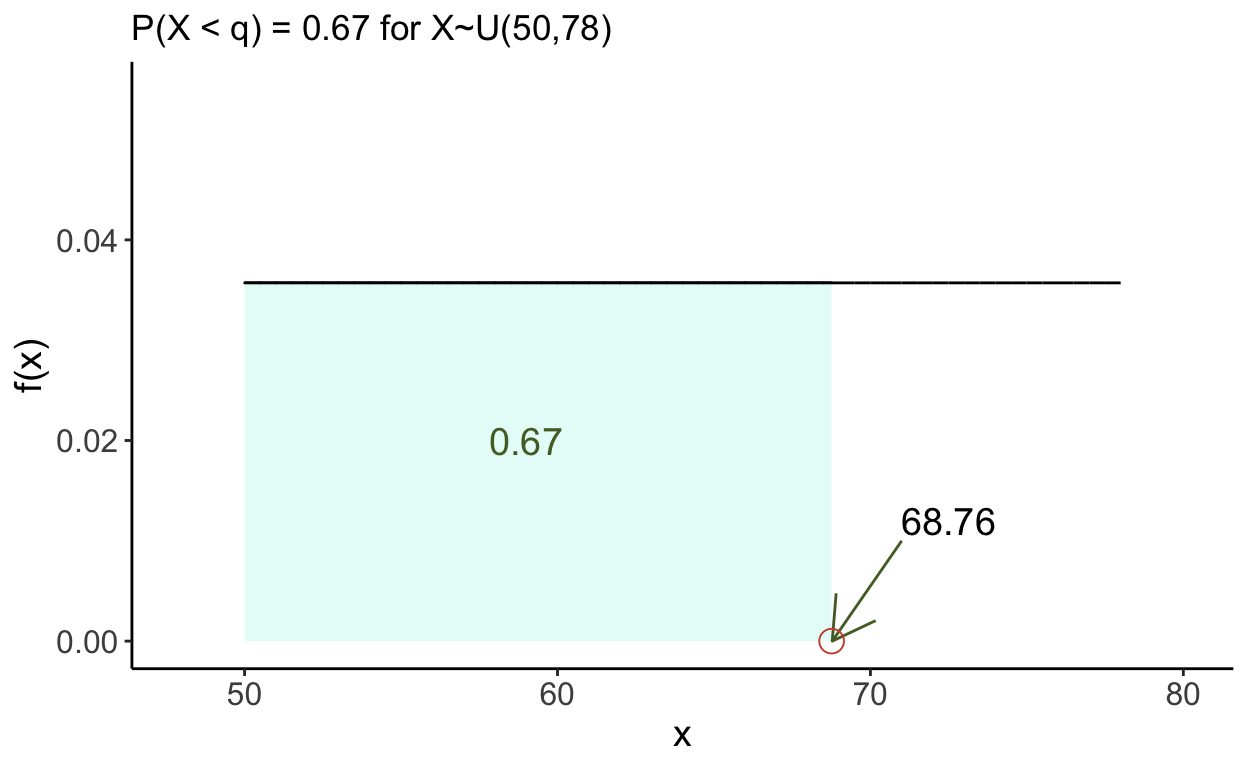
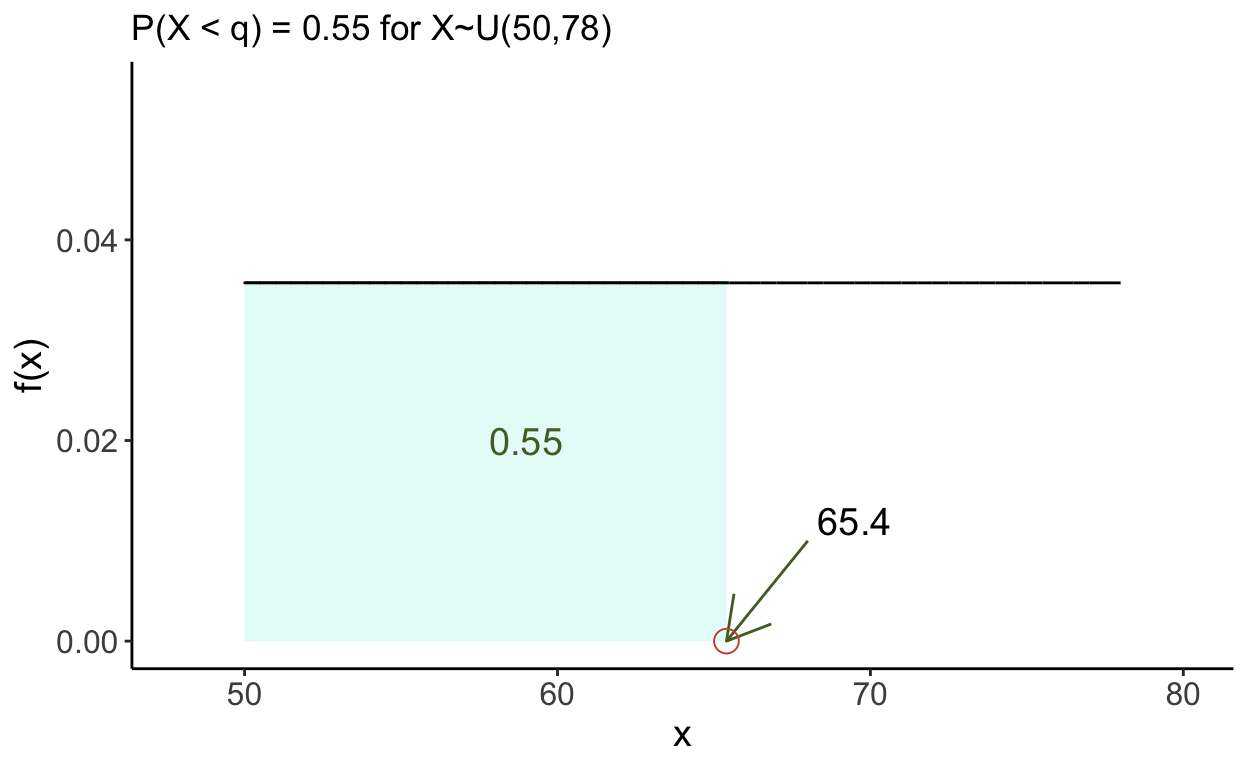
Adjust percentile question for ease of understanding in uniform

Changed region(s): [[0.5625, 0.3438, 0.8125, 0.8438], [0.4062, 0.5625, 0.4688, 0.5938], [0.25, 0.0312, 0.3125, 0.0625]]

diff --git a/Probability Tutorial/Probability-Tutorial_files/Probability-Tutorial.html b/Probability Tutorial/Probability-Tutorial_files/Probability-Tutorial.html
@@ -309,7 +309,8 @@ punif(20.9, 20, 24, lower.tail = FALSE)</code></pre>
 punif(60.5, 58, 62) - punif(59.5, 58, 62)</code></pre>
 </div>
 <div class="tutorial-exercise-support" data-label="unif3-hint" data-caption="Code" data-completion="1" data-diagnostics="1" data-startover="1" data-lines="0">
-<pre class="text"><code># **Hint:** The intended length is 60 cm. Within 0.5cm of the intended length means between 0.5 below and 0.5 above the intended length.</code></pre>
+<pre class="text"><code># **Hint:** The intended length is 60 cm. Within 0.5cm of the intended length means between 0.5 below and 0.5 above 
+# the intended length.</code></pre>
 </div>
 <p><em>Click through the hints to reveal the solution</em></p>
 <!-- <div id="unif3-hint"> -->
@@ -325,13 +326,55 @@ punif(60.5, 58, 62) - punif(59.5, 58, 62)</code></pre>
 qunif(p, min = a, max = b)
 </p>
 <p>function. If no values are specified for <span class="math inline">\(a\)</span> and <span class="math inline">\(b\)</span>, R will assume you want the interval <span class="math inline">\((0,1)\)</span> by default.</p>
+<!-- <div class = "example"> -->
+<!-- **Example** Suppose $X$ follows a uniform distribution from 50 to 78. What is the $67^{\text{th}}$ percentile of the distribution?  -->
+<!-- </div> -->
+<!-- <div class = "solution"> -->
+<!-- **Solution** Find $q$ such that $P(X<q)=0.67$ -->
+<!-- ```{r, echo = TRUE} -->
+<!-- qunif(0.67, 50, 78) -->
+<!-- ``` -->
+<!-- Visually, this looks like: -->
+<!-- ```{r, warning = FALSE, message = FALSE} -->
+<!-- f <- function(x){ -->
+<!--   if(50<= x & x <= 78) y <- 1/28 -->
+<!--   else y <- 0 -->
+<!--   return(y) -->
+<!-- } -->
+<!-- x = seq(from=50,to=78,by=.005) -->
+<!-- y = sapply(X=x,FUN=f,simplify=TRUE,USE.NAMES=FALSE) -->
+<!-- df = data.frame(X=x,Y=y) -->
+<!-- circles <- data.frame( -->
+<!--   x0 = 68.76, -->
+<!--   y0 = 0 -->
+<!-- ) -->
+<!-- ggplot(data=df, mapping=aes(x=X, y=Y)) + -->
+<!--     geom_line()+ -->
+<!--     geom_area(mapping=aes(x=ifelse(x>50 & x < 68.76, x, 0)), fill="#e6fcf8", alpha=1, color = "black") + -->
+<!--     ylim(0, 0.055) + -->
+<!--     xlim(48, 80) + -->
+<!--    xlab("x") + -->
+<!--     ylab("f(x)") + -->
+<!--     ggtitle("P(X < q) = 0.67 for X~U(50,78)") + -->
+<!--    theme_classic() + -->
+<!--   theme(axis.text=element_text(size=12), -->
+<!--         axis.title=element_text(size=14)) + -->
+<!--   annotate("text", x = 59, y = 0.02, label = "0.67",  -->
+<!--            col = "darkolivegreen", size = 5) + -->
+<!--   annotate("segment",  x = 71, xend = 68.78, y = 0.01, yend = 0, -->
+<!--            arrow = arrow(), -->
+<!--            col = "darkolivegreen") + -->
+<!--   annotate("text", x = 72.5, y = 0.012, label = "68.76", size = 5) + -->
+<!--   geom_point(data = circles, aes(x = x0, y = y0), size = 4, pch = 1, col = "tomato3") -->
+<!-- ``` -->
+<!-- </div> -->
 <div class="example">
-<p><strong>Example</strong> Suppose <span class="math inline">\(X\)</span> follows a uniform distribution from 50 to 78. What is the <span class="math inline">\(67^{\text{th}}\)</span> percentile of the distribution?</p>
+<p><strong>Example</strong> Suppose <span class="math inline">\(X\)</span> follows a uniform distribution from 50 to 78. What is the <span class="math inline">\(55^{\text{th}}\)</span> percentile of the distribution?</p>
 </div>
 <div class="solution">
-<p><strong>Solution</strong> Find <span class="math inline">\(q\)</span> such that <span class="math inline">\(P(X&lt;q)=0.67\)</span></p>
-<pre class="r"><code>qunif(0.67, 50, 78)</code></pre>
-<pre><code>## [1] 68.76</code></pre>
+<p><strong>Solution</strong> Find <span class="math inline">\(q\)</span> such that <span class="math inline">\(P(X&lt;q)=0.55\)</span></p>
+<pre class="r"><code>qunif(0.55, 50, 78)</code></pre>
+<pre><code>## [1] 65.4</code></pre>
 <p>Visually, this looks like:</p>
 <p><img src="Probability-Tutorial_files/figure-html/unnamed-chunk-10-1.png" width="624" /></p>
 </div>
@@ -383,13 +426,13 @@ runif(n, min = a, max = b)
 <div class="solution">
 <p><strong>Solution</strong></p>
 <pre class="r"><code>runif(50, 20, 63)</code></pre>
-<pre><code>##  [1] 30.51450 29.82887 41.85755 49.49074 35.60034 34.08221 44.35739 39.46901
-##  [9] 27.25063 58.55926 55.96959 47.41055 29.01372 47.14203 45.13533 35.35195
-## [17] 50.62278 44.24781 22.93467 56.67284 60.66443 61.98810 48.97292 28.49974
-## [25] 58.86429 36.51416 22.22369 58.97118 29.00945 42.39530 31.27554 21.54485
-## [33] 60.08234 54.06174 59.57388 32.89655 27.22637 35.96629 39.67713 26.10817
-## [41] 34.52223 52.67755 31.55414 33.12217 40.31208 52.44942 34.38926 30.88122
-## [49] 34.62125 51.14240</code></pre>
+<pre><code>##  [1] 49.56789 52.19369 22.63360 29.83136 55.30273 51.58347 28.76672 50.89937
+##  [9] 62.88675 42.16144 43.09501 21.39242 39.67446 51.94471 55.78554 56.46485
+## [17] 53.12986 62.99526 62.66643 62.58360 24.27332 25.75625 35.23715 45.86798
+## [25] 52.68473 45.51602 56.01133 24.36447 37.66114 47.72492 22.71469 32.18242
+## [33] 21.05996 27.79724 25.08227 52.23908 21.43339 60.06140 34.23544 23.73163
+## [41] 41.41703 39.21229 44.43239 53.81472 62.02540 60.70113 55.87085 37.47107
+## [49] 27.28540 46.65462</code></pre>
 <p>You will note that all these values fall between 20 and 63.</p>
 </div>
 </div>
